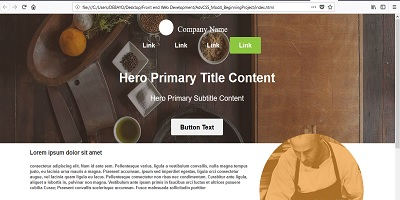
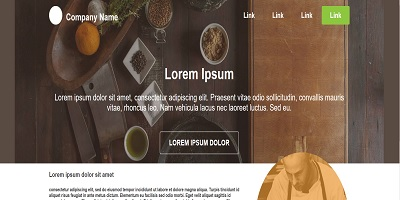
Mobile Nav centered, Project pictures updated, Overall font family updated

diff --git a/scss/main.scss b/scss/main.scss
@@ -24,7 +24,7 @@ html {
 body {
     margin: 0 auto;
     line-height: 1.5;
-    font-family: 'Lucida Sans', 'Lucida Sans Regular', 'Lucida Grande', 'Lucida Sans Unicode', Geneva, Verdana, sans-serif;
+    font-family: 'Trebuchet MS', 'Lucida Sans Unicode', 'Lucida Grande', 'Lucida Sans', Arial, sans-serif; 
 }
 
 .bg-img {
@@ -107,7 +107,6 @@ a {
     flex: 8;
     // position: relative;
     // bottom: 10px;
-
     padding-left: 0px;
 }
 
@@ -168,7 +167,7 @@ a {
         font-size: 2rem;
 
         .text-primary {
-            color: darken($primary-color, 10);
+            color: $primary-color;
         }
     }
 
@@ -222,7 +221,7 @@ a {
 
 // Contact Page
 #contact {
-    background: lighten($primary-color, 40);
+    background: lighten($primary-color, 30);
     width: 100%;
 
     h1 {
@@ -321,6 +320,7 @@ footer {
         padding-top: 15px;
         display: none;
         list-style-type: none;
+
     }
 
     .nav-link {
@@ -342,8 +342,8 @@ footer {
         display: inline-block;
         margin-top: 10px;
         margin-left: 20px;
+        margin-right: -60px;
         
-
         img {
             width: 40px;
             height: 40px;
@@ -357,10 +357,10 @@ footer {
         a {
             padding-right: 15px;
             color: $primary-color;
-        }
-        a:hover {
-            color: $secondary-color;
-            @include easeOut();
+            &:hover {
+                color: $secondary-color;
+                @include easeOut();
+            }
         }
     }
 

diff --git a/portfolio/css/main.css b/portfolio/css/main.css
@@ -9,7 +9,7 @@ html {
 body {
   margin: 0 auto;
   line-height: 1.5;
-  font-family: 'Lucida Sans', 'Lucida Sans Regular', 'Lucida Grande', 'Lucida Sans Unicode', Geneva, Verdana, sans-serif; }
+  font-family: 'Trebuchet MS', 'Lucida Sans Unicode', 'Lucida Grande', 'Lucida Sans', Arial, sans-serif; }
 
 .bg-img {
   background: url(../img/Web-Dev.jpg);
@@ -113,7 +113,7 @@ a {
   #welcome-section #intro {
     font-size: 2rem; }
     #welcome-section #intro .text-primary {
-      color: #0b1925; }
+      color: #16344d; }
 
 .icons {
   display: none; }
@@ -142,7 +142,7 @@ a {
     transition: all 0.2s ease-out; }
 
 #contact {
-  background: #5e9dd1;
+  background: #3884c4;
   width: 100%; }
   #contact h1 {
     text-align: center; }
@@ -214,7 +214,8 @@ footer {
   .branding {
     display: inline-block;
     margin-top: 10px;
-    margin-left: 20px; }
+    margin-left: 20px;
+    margin-right: -60px; }
     .branding img {
       width: 40px;
       height: 40px; }
@@ -224,9 +225,9 @@ footer {
     .icons a {
       padding-right: 15px;
       color: #16344d; }
-    .icons a:hover {
-      color: #ff957c;
-      transition: all 0.2s ease-out; }
+      .icons a:hover {
+        color: #ff957c;
+        transition: all 0.2s ease-out; }
   .social-icons {
     display: none;
     padding: 10px; }
